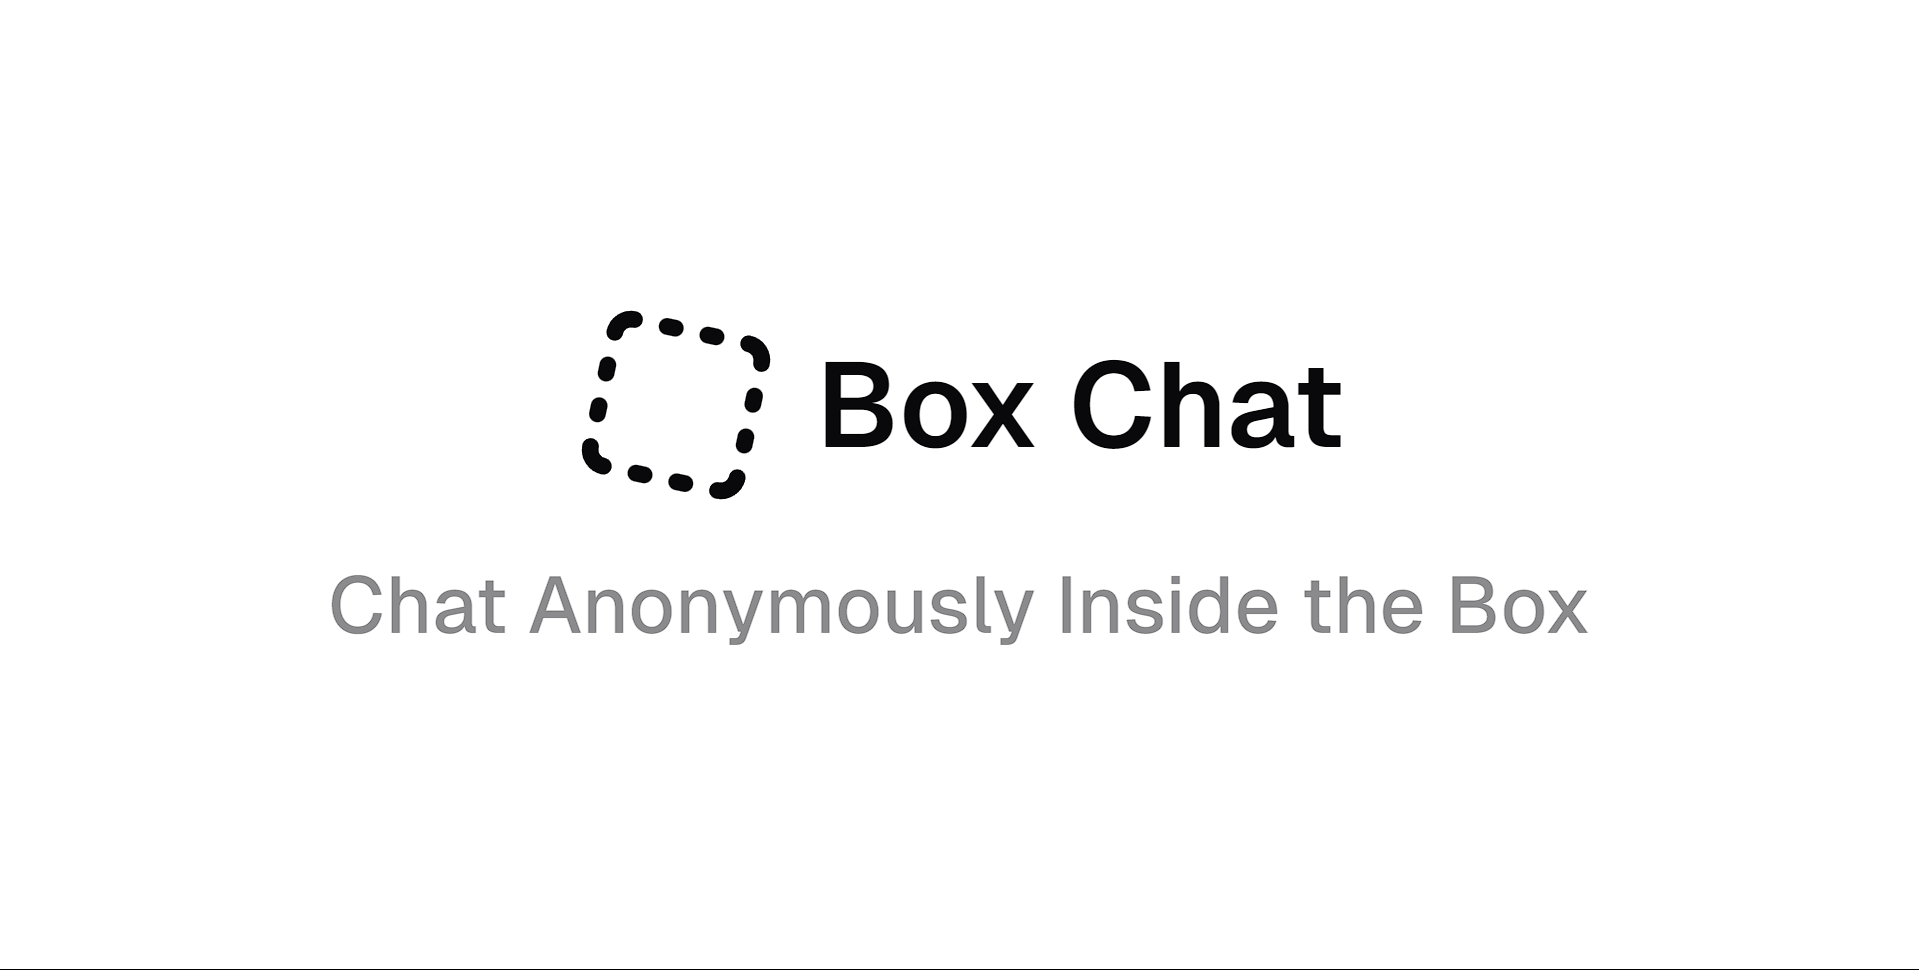
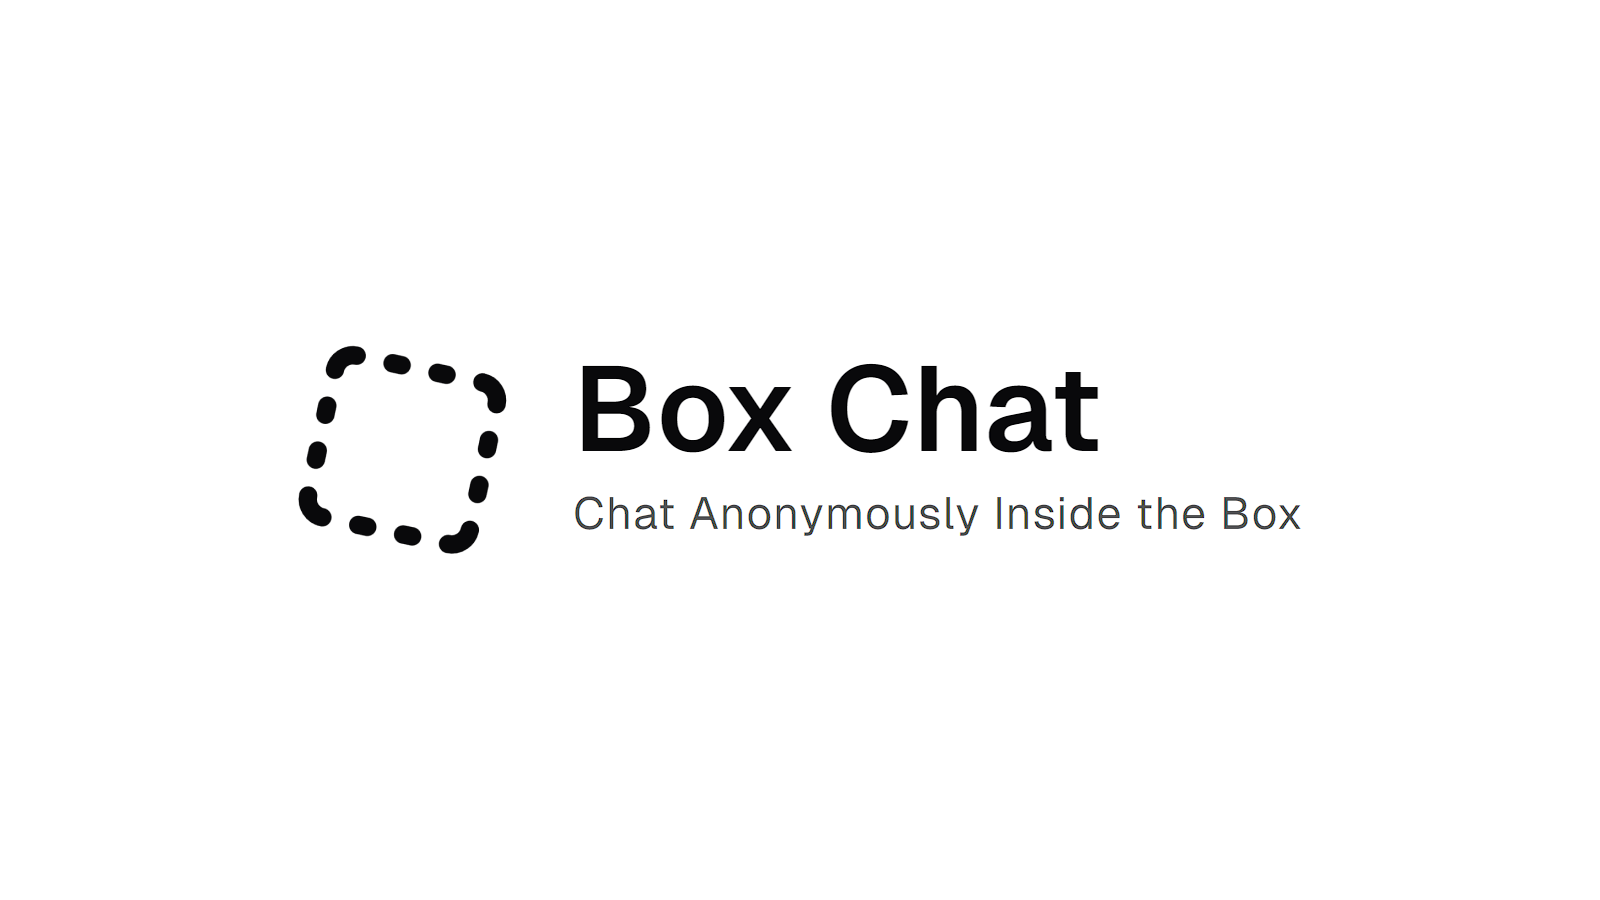
landing page

Changed region(s): [[0.1562, 0.3111, 0.8438, 0.6533], [0.0, 0.9956, 1.0, 1.0]]

diff --git a/app/page.tsx b/app/page.tsx
@@ -1,7 +1,7 @@
 "use client";
 
 import { useState } from "react";
-import Navbar from "@/components/Navbar";
+import Navbar from "@/components/Main/Navbar";
 import { Button } from "@/components/ui/button";
 import { BoxSelectIcon } from "lucide-react";
 import React from "react";
@@ -17,6 +17,9 @@ import {
   AlertDialogTrigger,
 } from "@/components/ui/alert-dialog";
 import { Input } from "@/components/ui/input";
+import Hero from "@/components/Main/Hero";
+import Footer from "@/components/Main/Footer";
+import Features from "@/components/Main/Features";
 
 const Home = () => {
   const [boxName, setBoxName] = useState("");
@@ -27,50 +30,11 @@ const Home = () => {
     }
   };
   return (
-    <div className="flex justify-center items-center min-h-[100dvh] w-full">
+    <div>
       <Navbar />
-      <div className="grid md:grid-cols-2 max-w-3xl px-5 w-full">
-        <div className="flex flex-col justify-center">
-          <h1 className="text-5xl pb-1 font-semibold">Box Chat</h1>
-          <p className="text-lg tracking-wide text-primary/75">
-            Chat Anonymously Inside the Box
-          </p>
-          <div className="mt-3 flex gap-3">
-            <Link href="/open">
-              <Button className="w-full">Join Open Box</Button>
-            </Link>
-            <AlertDialog>
-              <AlertDialogTrigger className="bg-primary px-4 py-2 text-primary-foreground shadow hover:bg-primary/90 inline-flex items-center justify-center whitespace-nowrap rounded-md text-sm font-medium transition-colors focus-visible:outline-none focus-visible:ring-1 focus-visible:ring-ring disabled:pointer-events-none disabled:opacity-50">
-                Create / Join a Box
-              </AlertDialogTrigger>
-              <AlertDialogContent>
-                <AlertDialogHeader>
-                  <AlertDialogTitle>
-                    Create / Join an Existing Box
-                  </AlertDialogTitle>
-                </AlertDialogHeader>
-                <form action={handleRedirect}>
-                  <Input
-                    type="text"
-                    value={boxName}
-                    onChange={(e) => setBoxName(e.target.value)}
-                    placeholder="Enter box name"
-                  />
-                </form>
-                <AlertDialogFooter className="flex flex-col">
-                  <AlertDialogAction onClick={handleRedirect}>
-                    Join
-                  </AlertDialogAction>
-                  <AlertDialogCancel>Cancel</AlertDialogCancel>
-                </AlertDialogFooter>
-              </AlertDialogContent>
-            </AlertDialog>
-          </div>
-        </div>
-        <div className="md:flex hidden justify-center items-center">
-          <BoxSelectIcon className="w-40 h-40 hover:rotate-12 hover:cursor-pointer trasnition duration-300" />
-        </div>
-      </div>
+      <Hero />
+      <Features />
+      <Footer />
     </div>
   );
 };

diff --git a/components/Main/Hero.tsx b/components/Main/Hero.tsx
@@ -1,0 +1,77 @@
+"use client";
+
+import { useState } from "react";
+import Navbar from "@/components/Main/Navbar";
+import { Button } from "@/components/ui/button";
+import { BoxSelectIcon } from "lucide-react";
+import React from "react";
+import Link from "next/link";
+import {
+  AlertDialog,
+  AlertDialogAction,
+  AlertDialogCancel,
+  AlertDialogContent,
+  AlertDialogFooter,
+  AlertDialogHeader,
+  AlertDialogTitle,
+  AlertDialogTrigger,
+} from "@/components/ui/alert-dialog";
+import { Input } from "@/components/ui/input";
+
+const Hero = () => {
+  const [boxName, setBoxName] = useState("");
+
+  const handleRedirect = () => {
+    if (boxName.trim()) {
+      window.location.href = `/box/${boxName.trim()}`;
+    }
+  };
+  return (
+    <div className="flex justify-center items-center min-h-[100dvh] w-full">
+      <div className="grid md:grid-cols-2 max-w-3xl px-5 w-full">
+        <div className="flex flex-col justify-center">
+          <h1 className="text-5xl pb-1 font-semibold">Box Chat</h1>
+          <p className="text-lg tracking-wide text-primary/75">
+            Chat Anonymously Inside the Box
+          </p>
+          <div className="mt-3 flex gap-3">
+            <Link href="/open">
+              <Button className="w-full">Join Open Box</Button>
+            </Link>
+            <AlertDialog>
+              <AlertDialogTrigger className="bg-primary px-4 py-2 text-primary-foreground shadow hover:bg-primary/90 inline-flex items-center justify-center whitespace-nowrap rounded-md text-sm font-medium transition-colors focus-visible:outline-none focus-visible:ring-1 focus-visible:ring-ring disabled:pointer-events-none disabled:opacity-50">
+                Create / Join a Box
+              </AlertDialogTrigger>
+              <AlertDialogContent>
+                <AlertDialogHeader>
+                  <AlertDialogTitle>
+                    Create / Join an Existing Box
+                  </AlertDialogTitle>
+                </AlertDialogHeader>
+                <form action={handleRedirect}>
+                  <Input
+                    type="text"
+                    value={boxName}
+                    onChange={(e) => setBoxName(e.target.value)}
+                    placeholder="Enter box name"
+                  />
+                </form>
+                <AlertDialogFooter className="flex flex-col">
+                  <AlertDialogAction onClick={handleRedirect}>
+                    Join
+                  </AlertDialogAction>
+                  <AlertDialogCancel>Cancel</AlertDialogCancel>
+                </AlertDialogFooter>
+              </AlertDialogContent>
+            </AlertDialog>
+          </div>
+        </div>
+        <div className="md:flex hidden justify-center items-center">
+          <BoxSelectIcon className="w-40 h-40 hover:rotate-12 hover:cursor-pointer trasnition duration-300" />
+        </div>
+      </div>
+    </div>
+  );
+};
+
+export default Hero;

diff --git a/components/Main/Features.tsx b/components/Main/Features.tsx
@@ -1,0 +1,60 @@
+import Image from "next/image";
+
+const stats = [
+  {
+    id: 1,
+    img: "/avatars/2.png",
+    name: "Anonymous Chat",
+    description:
+      "Share your thoughts and feelings without revealing your identity.",
+    link: "/customer/login",
+  },
+  {
+    id: 2,
+    img: "/box.png",
+    name: "Private Boxes",
+    description:
+      "Create a private chat room for you and your friends to discuss sensitive topics.",
+    link: "/producer/login",
+  },
+  {
+    id: 3,
+    img: "/globe.png",
+    name: "Open Box",
+    description:
+      "Connect with others worldwide and engage in anonymous conversations.",
+    link: "/shipment-provider/login",
+  },
+];
+
+export default function Features() {
+  return (
+    <div className="mx-auto max-w-5xl mb-48 px-6 lg:px-8">
+      <h1 className="w-full text-center max-w-6xl lg:mb-10 mb-5 text-3xl font-semibold">
+        Features
+      </h1>
+      <div className="grid grid-cols-1 gap-x-8 gap-y-8 text-center lg:grid-cols-3">
+        {stats.map((stat) => (
+          <div
+            key={stat.id}
+            className="flex flex-col justify-center items-center"
+          >
+            <div className="w-40 h-40 flex justify-center items-center">
+              <Image
+                src={stat.img}
+                alt={stat.name}
+                className="w-full"
+                width={500}
+                height={500}
+              ></Image>
+            </div>
+            <h1 className="text-xl font-semibold mb-2">{stat.name}</h1>
+            <div className="text-base leading-7 text-gray-600">
+              {stat.description}
+            </div>
+          </div>
+        ))}
+      </div>
+    </div>
+  );
+}

diff --git a/app/box/[box]/page.tsx b/app/box/[box]/page.tsx
@@ -119,7 +119,7 @@ export default function Box({ params }: { params: { box: string } }) {
       <div>
         <NewNoteBox />
         <div className="fixed py-5 bg-background border-b top-0 justify-center items-center w-full">
-          <div className="flex gap-3 justify-between max-w-3xl mx-auto px-5 w-full">
+          <div className="flex gap-3 justify-between max-w-5xl mx-auto px-5 w-full">
             <Link
               href="/"
               className="flex hover:cursor-pointer group justify-center items-center gap-2"

diff --git a/components/Main/Navbar.tsx b/components/Main/Navbar.tsx
@@ -6,7 +6,7 @@ import { GitHubLogoIcon } from "@radix-ui/react-icons";
 
 const Navbar = () => {
   return (
-    <div className="fixed py-5 bg-background border-b top-0 justify-center items-center w-full">
+    <div className="fixed py-5 bg-background top-0 justify-center items-center w-full">
       <div className="flex gap-3 justify-between max-w-5xl mx-auto px-5 w-full">
         <Link
           href="/"

diff --git a/components/NewNoteBox.tsx b/components/NewNoteBox.tsx
@@ -23,7 +23,7 @@ export default function NewNoteBox() {
     <div className="fixed border-t bg-background md:pb-10 bottom-0 py-5 left-0 right-0">
       <form
         onSubmit={handleSubmit}
-        className="flex gap-3 max-w-3xl mx-auto px-5 w-full"
+        className="flex gap-3 max-w-5xl mx-auto px-5 w-full"
       >
         <Input
           name="title"

diff --git a/components/NewNote.tsx b/components/NewNote.tsx
@@ -23,7 +23,7 @@ export default function NewNotes() {
     <div className="fixed border-t bg-background md:pb-10 bottom-0 py-5 left-0 right-0">
       <form
         onSubmit={handleSubmit}
-        className="flex gap-3 max-w-3xl mx-auto px-5 w-full"
+        className="flex gap-3 max-w-5xl mx-auto px-5 w-full"
       >
         <Input
           name="title"

diff --git a/components/Main/Footer.tsx b/components/Main/Footer.tsx
@@ -1,0 +1,11 @@
+import { Heart } from "lucide-react";
+
+const Footer = () => {
+  return (
+    <div className="flex font-medium w-full justify-center pb-10 items-center space-x-1">
+      <p>made on earth with</p> <Heart className="w-[1rem] h-[1rem]" />
+    </div>
+  );
+};
+
+export default Footer;
